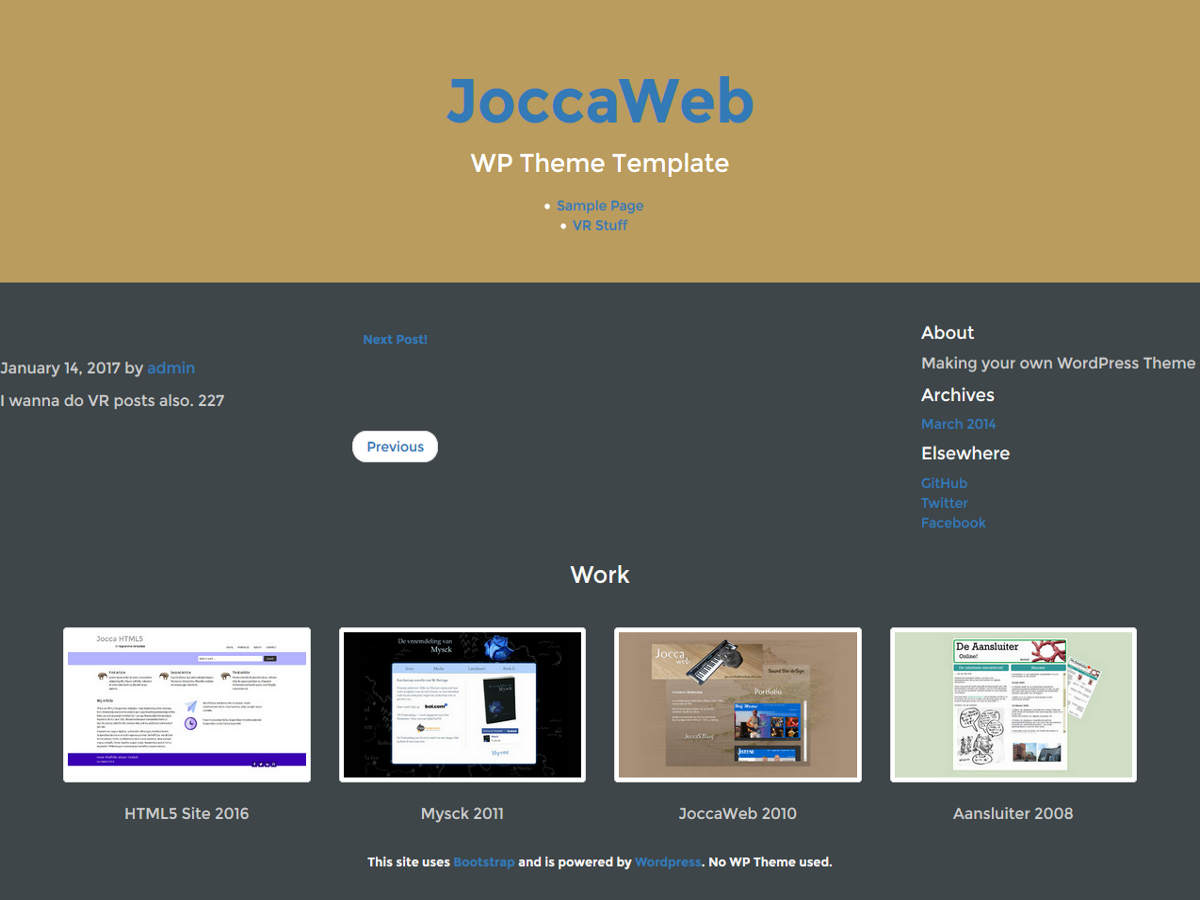
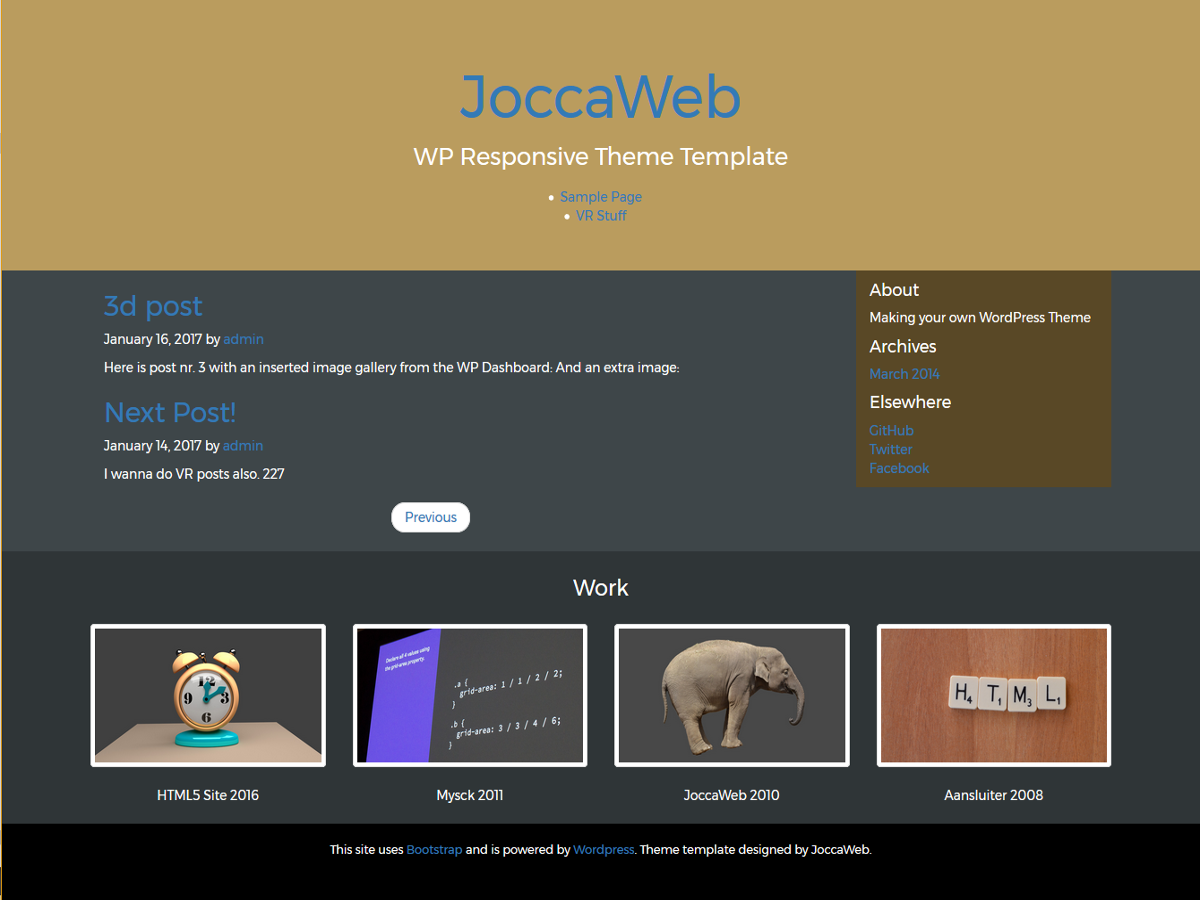
Add files via upload

diff --git a/style.css b/style.css
@@ -1,7 +1,7 @@
 /*
-Theme Name: JoccaTemp WP Portfolio-Blog
+Theme Name: Jocca WP Template
 Author: Jacco Scholten
-Description: Temp Portfolio Site converted to WordPress. Serves as a personal tutorial theme-template.
-Version: 0.0.1
-Tags: bootstrap, portfolio, blog, wordpress, themes, responsive
+Description: HTML and CSS converted to a WordPress theme. Serves as a make-your-own-WordPress-theme template.
+Version: 1.2.0
+Tags: bootstrap, blog, wordpress, theme, responsive, template
 */

diff --git a/header.php b/header.php
@@ -6,10 +6,10 @@
 
     <title>JoccaWeb</title>
 
-    <!-- Bootstrap integration from their CDN -->
+    <!-- Bootstrap CDM integration: -->
     <link href="https://maxcdn.bootstrapcdn.com/bootstrap/3.3.7/css/bootstrap.min.css" rel="stylesheet" integrity="sha384-BVYiiSIFeK1dGmJRAkycuHAHRg32OmUcww7on3RYdg4Va+PmSTsz/K68vbdEjh4u" crossorigin="anonymous">
 
-    <!-- My custom CSS, dynamically read by Wordpress: (you always have to have a style.css in the siteroot) -->
+    <!-- My custom CSS, dynamically read by Wordpress: (Note: you always have to have a style.css in the siteroot) -->
     <link href="<?php bloginfo('template_directory');?>/css/joccatemp.css" rel="stylesheet">
 
     <!-- Google Fonts: -->
@@ -22,13 +22,14 @@
 
     <!-- dynamic WP code added -->
     <?php wp_head();?>
+
 </head>
 
 <body>
+
     <div class="jumbotron">
-        <!-- JoccaWeb "logo" 
-        inserted Site Title and Tagline from WP Settings General: Same as the original JoccaWeb and Frontend. 
-        Also, if you click on the title, you go to the main blog page. -->
+        <!-- JoccaWeb logo. 
+        Inserted Site Title and Tagline from WP Settings General: Same as the original JoccaWeb and Frontend. Also, if you click on the title, you go to the main blog page. -->
         <div class="container">
             <h1>
                 <a href="<?php bloginfo( 'wpurl' );?>"><?php echo get_bloginfo( 'name' ); ?></a>
@@ -37,21 +38,15 @@
                 <?php echo get_bloginfo( 'description' ); ?>
             </p>
 
-            <!-- This is the most basic nav menu you can get. If for example the portfolio doesn't need to be on a 
-            separate page and you don't want to include it in the footer or header, you can just make an extra php file, 
-            say portfolio-section.php, to make up the building blocks of your one-page site (or with extra pages with other 
-            subjects): -->
+            <!-- This is the most basic nav menu you can get. If for example the portfolio doesn't need to be on a separate page and you don't want to include it in the footer or header, you can just make an extra php file, say portfolio-section.php, to make up the building blocks of your one-page site (or with extra pages with other subjects): -->
 
             <?php wp_list_pages( '&title_li=' ); ?>
-                <!-- A page replaces the contents of content.php, the rest of the site remains in view.
-                A menu with relative links for one page must be made separately or in the sidebar perhaps. 
-                You can always make extra menus and lists in other sections.
+
+                <!-- A page replaces the contents of content.php, the rest of the site remains in view. A menu with relative links for one page must be made separately or in the sidebar perhaps. You can always make extra menus and lists in other sections.
                 
-                Note 1: I will hardly use the internal editor of Wordpress for html and css. A separate editor like 
-                Brackets works better for me and can be used in different projects.
+                Note 1: I will hardly use the internal editor of Wordpress for html and css. A separate editor like Brackets works better for me and can be used in different projects.
                 
-                Note 2: the HTML of a WP Page needs to be edited in the Page section of the Dashboard, 
-                considering the auto-generation of it in content.php -->
+                Note 2: the HTML of a WP Page needs to be edited in the Page section of the Dashboard, because of the auto-generation of it in content.php -->
 
         </div>
         <!-- /.container -->

diff --git a/index.php b/index.php
@@ -1,35 +1,4 @@
-<!-- My Wordpress Responsive Theme Template
-
-This template is based on my temporary basic portfolio site. It minimally needed added blog functionality to make 
-the conversion to WordPress useful. So this theme has an added blog section in comparison with the original temp portfolio site.
-
-Therefore we will have to have index.php calling header.php, footer.php, sidebar.php and content.php. 
-Pages (non-blog entries) wil be auto-generated in content.php, see header.php.
-For having pages without the sidebar (and blog with the sidebar) pages.php has to be added as a 2nd index. 
-Single.php is a 3d index, for getting 1 post per page.
-You can always add new sections in the html, but not new php files. For example, work.php would result in an 
-undefined function call (get_work) in php. So the work section has to be put on top of the html code in footer.php.
-Update: You can add new php files, but you have to put code in them that makes them a custom template file. 
-See https://codex.wordpress.org/Theme_Development#Template_Files_List
-
-The logo and slogan wil be in the header. See header.php for the nav menu.
-So we'll create a new content- and sidebar section (and page.php).
-
-In other site-conversion projects it's possible that you have to replace or re-edit blog-entry or blog-entry-like sections/code.
-
-Notes about the Theme screenshot from the WordPress Codex: 
-The screenshot of the theme (see Dashboard - Appearance - Themes) should be in the root of the theme site folder 
-and should be named screenshot.png. 
-The recommended image size is 1200x900 or another size that's close but with the same width-height ratio. 
-Otherwise the screenhot wil not align in the screenshot holder shown at the Details page of the theme. 
-The screenshot will only be shown as 387x290, but the double-sized image allows for high-resolution 
-viewing on HiDPI displays.
-
-Favicon: Dashboard - Appearance - Customize - Site Identity - Site Icon
-
-The site still needs a few CSS adjustments but the conversion of my temp portfolio site to a WordPress theme is succesful. 
-Now I can make any html-css combination or PhotoShop/GIMP template into a WordPress theme :)
--->
+<!-- A Wordpress Responsive Theme Template -->
 
 <?php get_header(); ?>
 
@@ -47,7 +16,7 @@ Now I can make any html-css combination or PhotoShop/GIMP template into a WordPr
 
                 endwhile; ?>
 
-                <!-- pagination added; Settings > Reading and change Blog pages show at most to 1 you can check whether it works.-->
+                <!-- Pagination added: In the WordPress Dashboard go to Settings > Reading and change Blog pages show at most to 1 you can check whether it works. -->
                 <nav>
                     <ul class="pager">
                         <li>

diff --git a/footer.php b/footer.php
@@ -13,7 +13,7 @@
                     <!-- Note 1: uploading pictures to the Media Library of Wordpress is meant for attaching pictures to Posts or Pages. Outside of that I wil use my own img folder.
 
                     Note 2: Picture is dynamically loaded by Wordpress: -->
-                    <img class="thumbnail img-responsive" src="<?php bloginfo('template_directory');?>/img/html5template-400x233.jpg" alt="HTML5 Site 2016"></a>
+                    <img class="thumbnail img-responsive" src="<?php bloginfo('template_directory');?>/img/modal-clock3d.jpg" alt="Clock 3D"></a>
 
                 <div class="caption">
                     <p>HTML5 Site 2016</p>
@@ -23,7 +23,7 @@
             <div class="col-xs-6 col-md-3 col-xxs-12">
 
                 <a target="blank" href="mysck/index.html">
-                    <img class="thumbnail img-responsive" src="<?php bloginfo('template_directory');?>/img/mysck-400x233.jpg" alt="Mysck Trilogie 2011"></a>
+                    <img class="thumbnail img-responsive" src="<?php bloginfo('template_directory');?>/img/modal-csscode.jpg" alt="Mysck Trilogie 2011"></a>
 
                 <div class="caption">
                     <p>Mysck 2011</p>
@@ -33,7 +33,7 @@
             <div class="col-xs-6 col-md-3 col-xxs-12">
 
                 <a target="blank" href="img/joccaweb-old-widescreen.jpg">
-                    <img class="thumbnail img-responsive" src="<?php bloginfo('template_directory');?>/img/joccaweb-old-400x233.jpg" alt="JoccaWeb 2010"></a>
+                    <img class="thumbnail img-responsive" src="<?php bloginfo('template_directory');?>/img/modal-elephant.jpg" alt="JoccaWeb 2010"></a>
 
                 <div class="caption">
                     <p>JoccaWeb 2010</p>
@@ -43,7 +43,7 @@
             <div class="col-xs-6 col-md-3 col-xxs-12">
 
                 <a target="blank" href="aansluiter/index.html">
-                    <img class="thumbnail img-responsive" src="<?php bloginfo('template_directory');?>/img/aansluiter-400x233.jpg" alt="Aansluiter 2008"></a>
+                    <img class="thumbnail img-responsive" src="<?php bloginfo('template_directory');?>/img/modal-htmlscrabble.jpg" alt="Aansluiter 2008"></a>
 
                 <div class="caption">
                     <p>Aansluiter 2008</p>

diff --git a/sidebar.php b/sidebar.php
@@ -1,4 +1,4 @@
-<!-- example code from TaniaRascia's tutorial (from Bootstrap blog example: http://getbootstrap.com/examples/blog/) -->
+<!-- Example code from TaniaRascia's tutorial (a Bootstrap blog example, http://getbootstrap.com/examples/blog/) -->
 
 <div class="col-sm-3 col-sm-offset-1 blog-sidebar">
     <div class="sidebar-module sidebar-module-inset">

diff --git a/content-single.php b/content-single.php
@@ -1,4 +1,4 @@
-<!-- single blogpost html, één post per pagina:
+<!-- single blogpost html, one post per page:
 Content for the WordPress loop -->
 
 <div class="blog-post">

diff --git a/ReadMe.md b/ReadMe.md
@@ -1,0 +1,24 @@
+This WordPress Theme template uses Bootstrap v3.3.7 and assumes intermediate knowledge of HTML, CSS and basic knowledge of PHP. 
+
+See http://getbootstrap.com (no Sass/Less and Grunt/Gulp).
+The contents of bootstrap.css (unminified) can be viewed by downloading the Bootstrap files from the site.
+
+This a wordpress theme from scratch. See the WordPress tutorial on https://www.taniarascia.com/developing-a-wordpress-theme-from-scratch/. This tutorial offers a nice step by step explanation.
+See also https://codex.wordpress.org/ for more information about WordPress theme development.
+
+I converted a handmade HTML-CSS site to this theme.
+
+I have the index.php file calling header.php, footer.php, sidebar.php and content.php. Pages (non-blog entries) wil be auto-generated in content.php, see header.php.
+For having pages without the sidebar (and blog with the sidebar) pages.php has is added as a 2nd index. Single.php is a 3d index, for getting one post per page.
+You can always add new sections in the html, but not new php files. For example, work.php would result in an undefined function call (get_work) in php. So the work section has to be put on top of the html code in footer.php.
+Update: You can add new php files, but you have to put code in them that makes them a custom template file. See https://codex.wordpress.org/Theme_Development#Template_Files_List
+
+The logo and slogan wil be in the header. See header.php for the nav menu.
+
+Notes about the Theme screenshot from the WordPress Codex: 
+The screenshot of the theme (see Dashboard - Appearance - Themes) should be in the root of the theme site folder and should be named screenshot.png. 
+The recommended image size is 1200x900, or another size that's close but with the same width-height ratio. Otherwise the screenhot wil not align in the screenshot holder shown at the Details page of the theme. The screenshot will only be shown as 387x290, but the over double-sized image allows for high-resolution viewing on HiDPI displays.
+
+Favicon: Dashboard - Appearance - Customize - Site Identity - Site Icon
+
+The conversion of my html-css site to a WordPress theme is succesful. Now I can make any html-css combination into a WordPress theme :)
